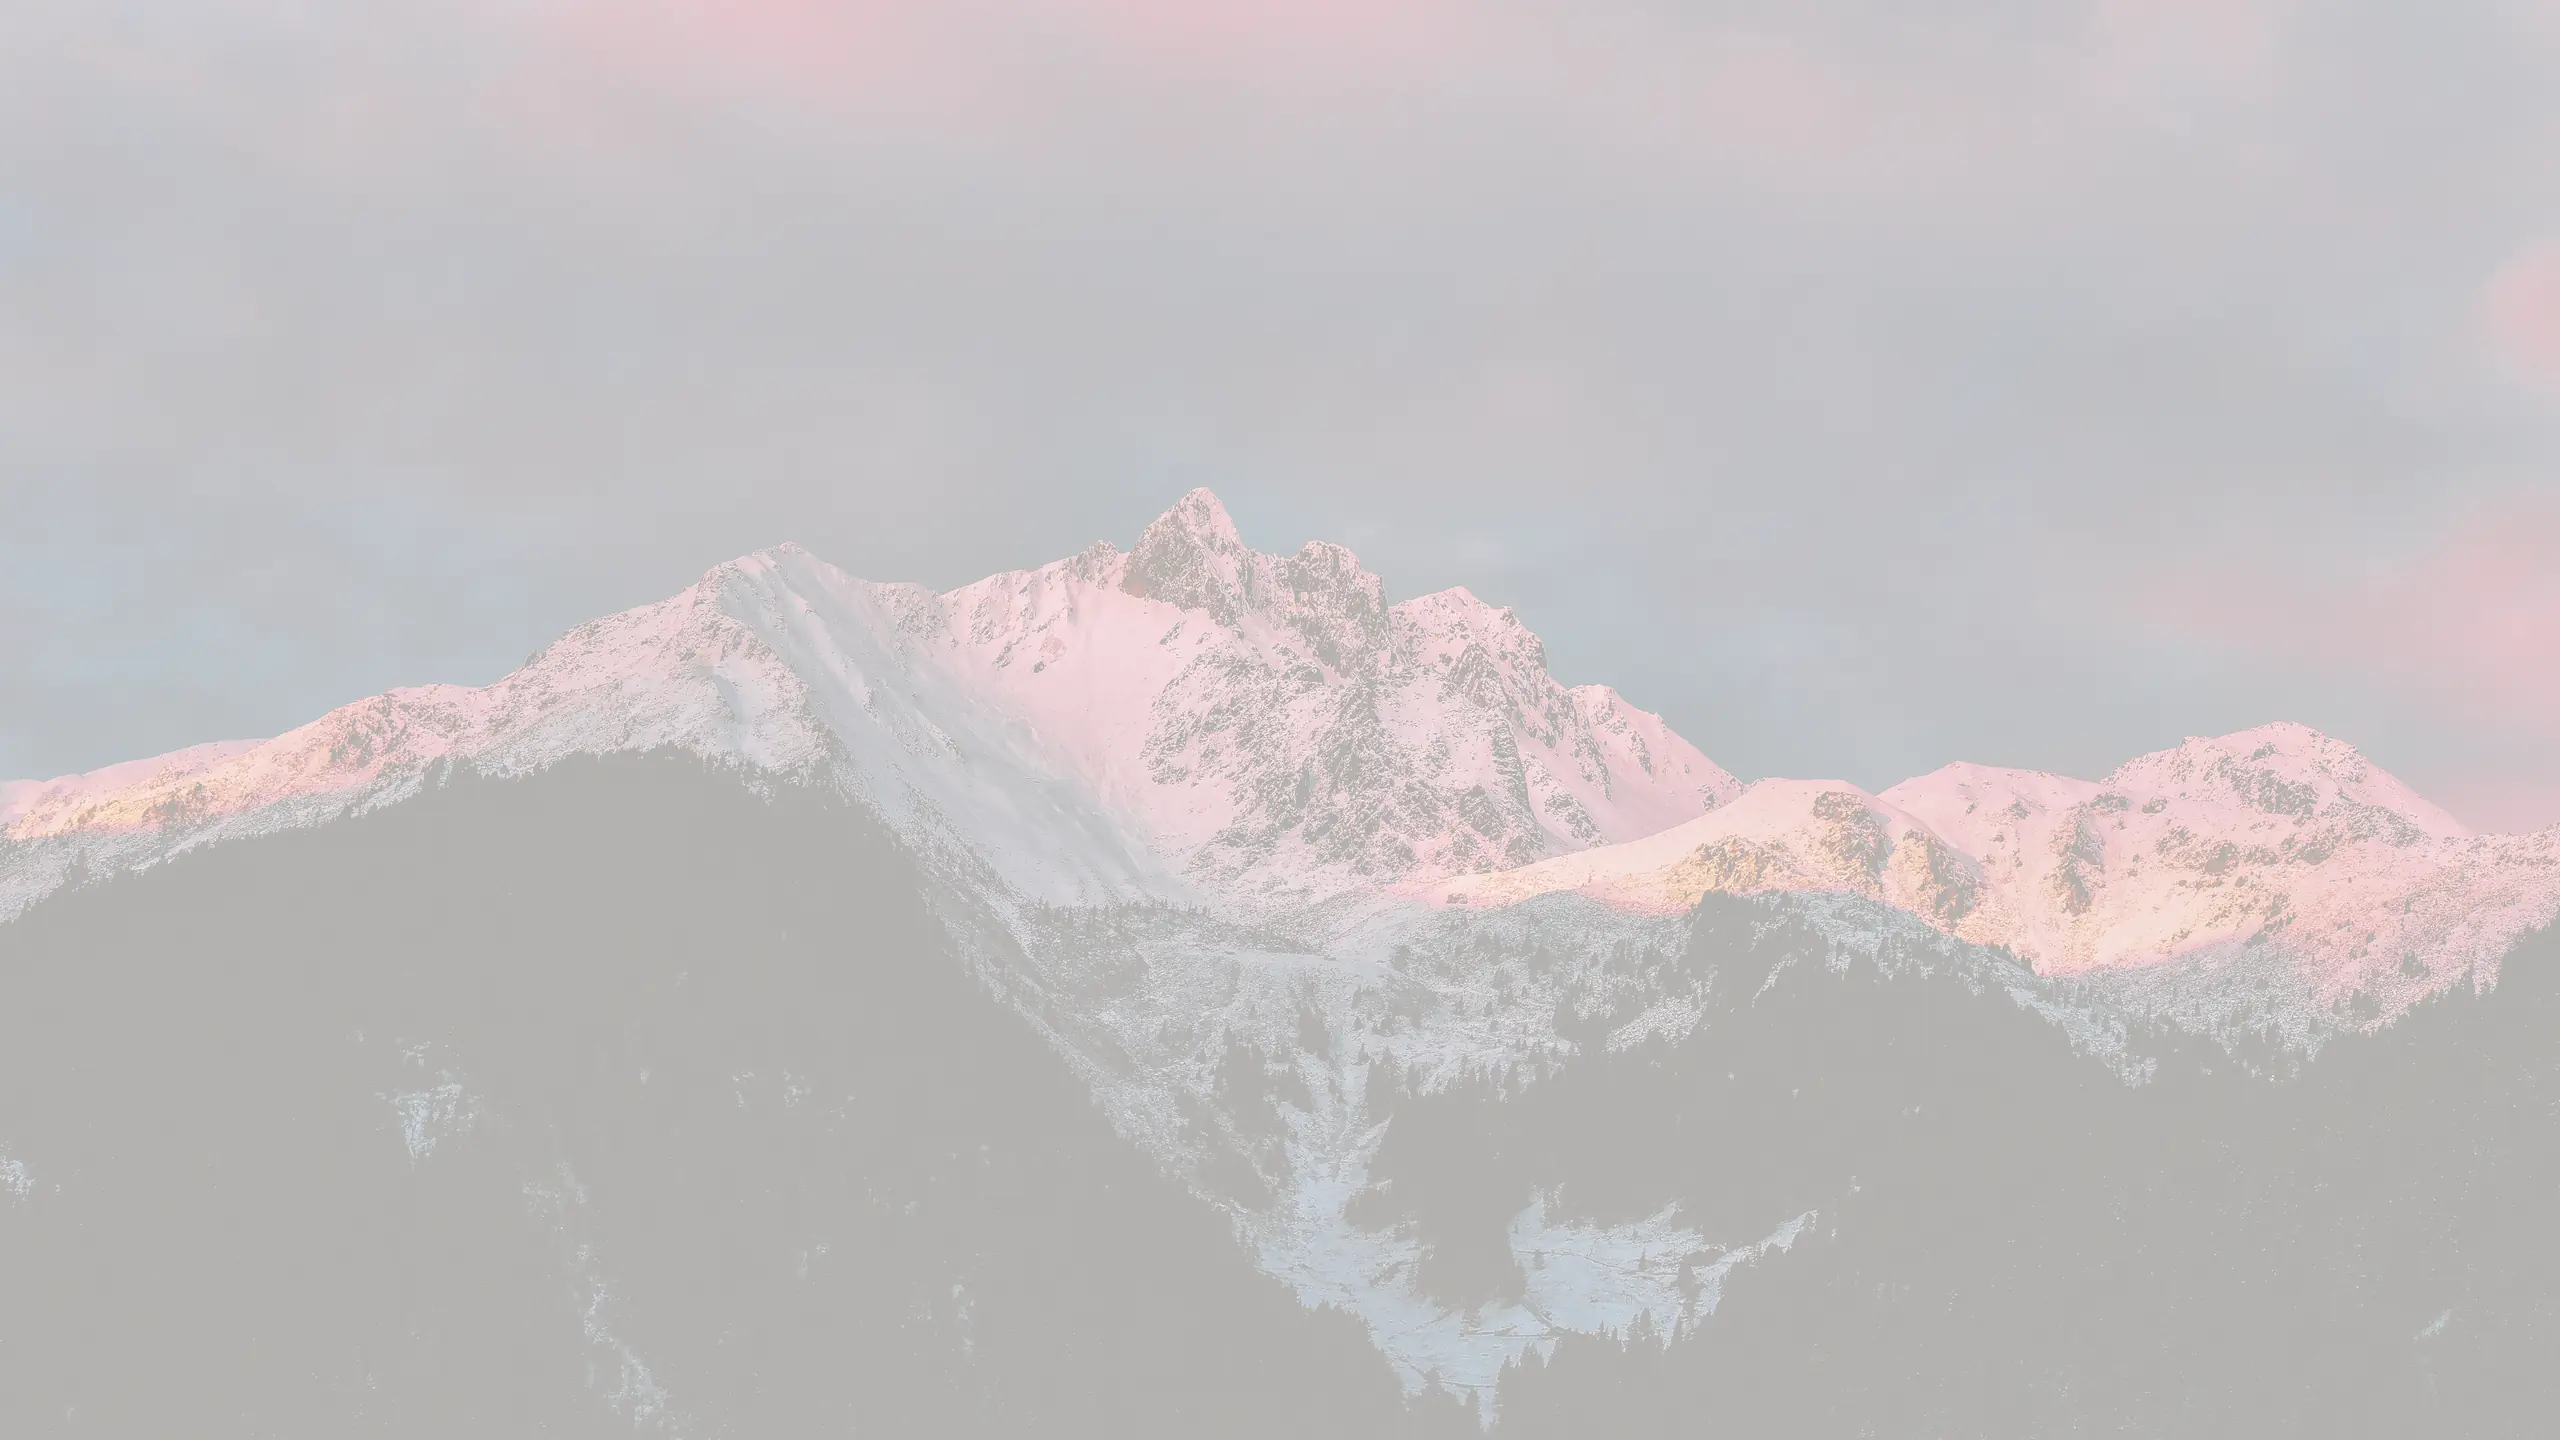
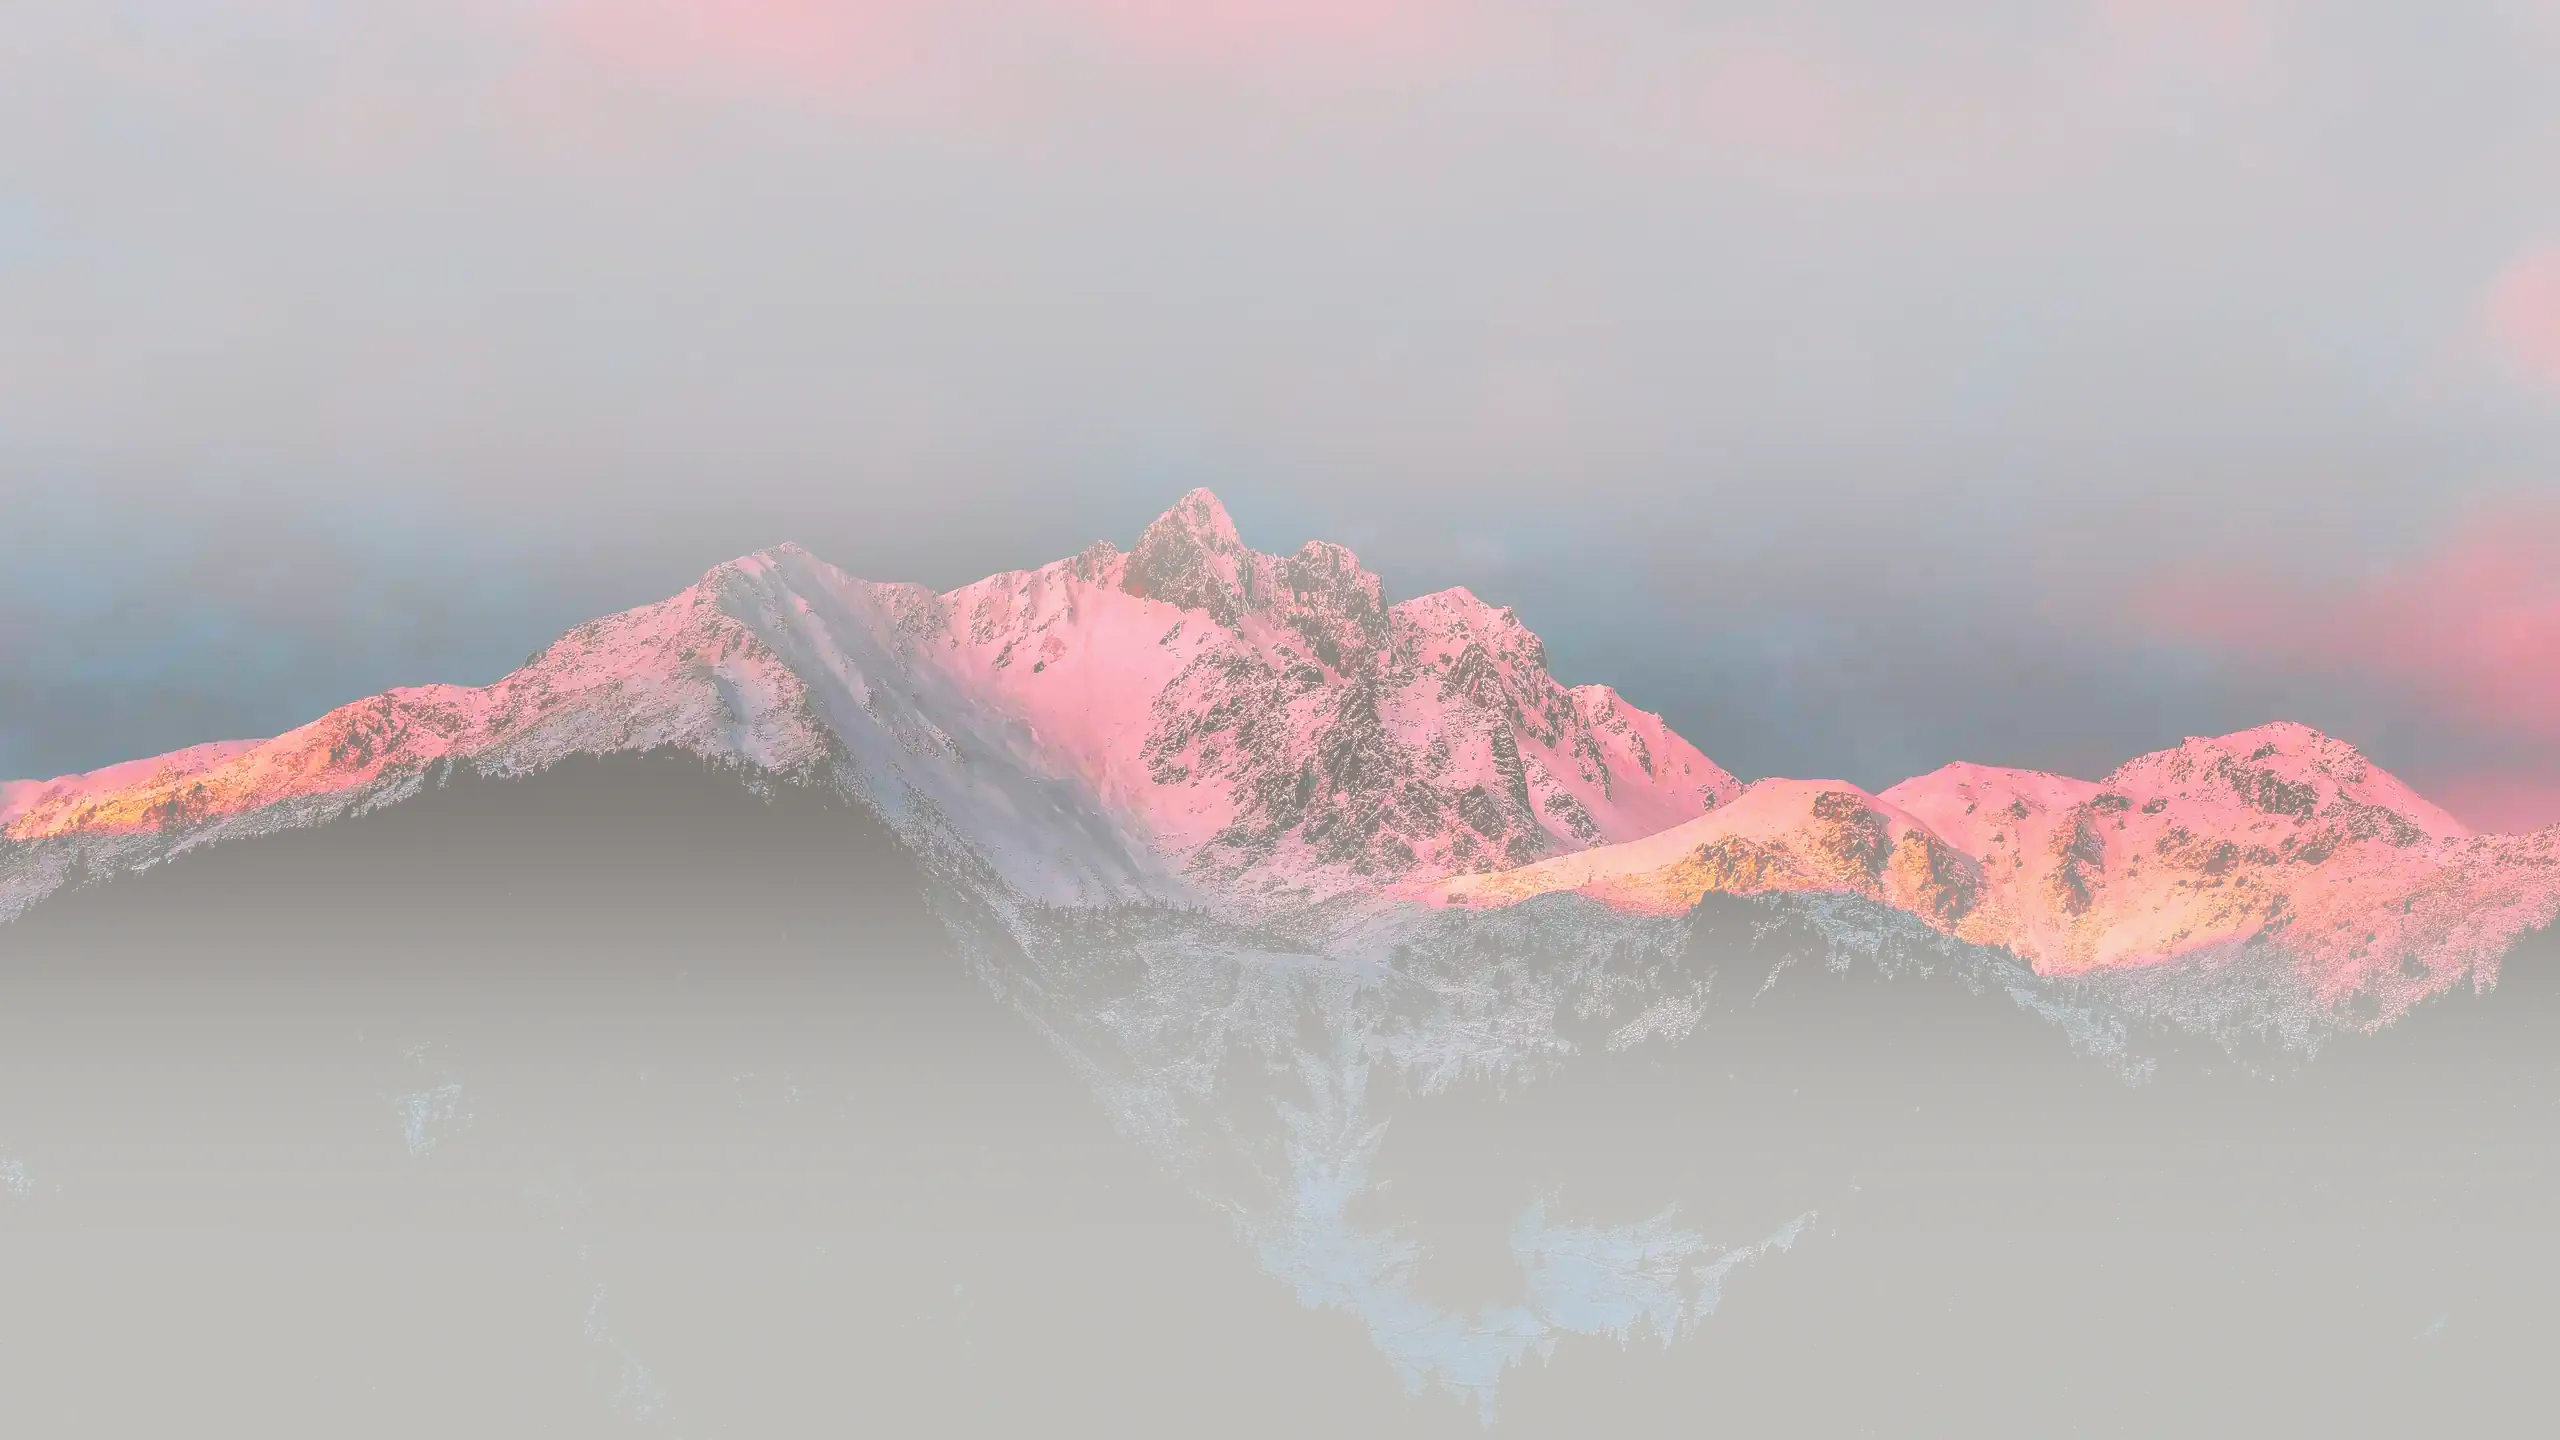
feat: aurora in light theme with blue palette, clearer wallpaper
- Aurora runs in both themes (deeper blues for light), with a CSS fallback
- Rebuilt the light wallpaper with restored contrast instead of a baked white wash
- Lighter side veil, vignette and scroll fade so the photo shows through
- Dissolve the hero atmosphere at its base to avoid a hard edge

Changed region(s): [[0.0, 0.375, 1.0, 0.6875]]

diff --git a/components/AuroraBackground.tsx b/components/AuroraBackground.tsx
@@ -20,6 +20,7 @@ uniform float uIntensity;
 uniform float uGrain;
 uniform float uSeed;
 uniform float uPixel;
+uniform float uWhite;
 uniform vec3 uColors[3];
 
 float hash21(vec2 p) {
@@ -83,7 +84,7 @@ void main() {
     float rays = 0.45 + 0.85 * fbm2(vec2(uv.x * 13.0 + seed, y * 1.7 - t * 0.55));
     float breathe = 0.78 + 0.22 * sin(t * 0.31 + seed) * cos(t * 0.17 + seed * 0.7);
     float weight = ribbon * envelope * rays * breathe * 0.46;
-    vec3 hot = mix(uColors[i % 3], vec3(1.0), clamp(core * 0.42, 0.0, 0.45));
+    vec3 hot = mix(uColors[i % 3], vec3(1.0), clamp(core * uWhite, 0.0, 0.45));
     accum += hot * weight;
     alpha += weight;
   }
@@ -106,11 +107,17 @@ void main() {
 }
 `;
 
-// Cobre, âmbar e rosa-queimado: casam com o acento --accent do portfólio.
+// Azul, ciano e índigo: contrastam com o cobre do acento e da foto de montanha.
 const COLORS: [number, number, number][] = [
-  [0.83, 0.53, 0.35],
-  [0.96, 0.62, 0.30],
-  [0.70, 0.30, 0.38],
+  [0.26, 0.55, 0.98],
+  [0.30, 0.80, 1.00],
+  [0.46, 0.40, 0.96],
+];
+// Tema claro: tons mais fundos, para as faixas lerem sobre fundo claro.
+const COLORS_LIGHT: [number, number, number][] = [
+  [0.10, 0.36, 0.82],
+  [0.12, 0.56, 0.90],
+  [0.32, 0.26, 0.78],
 ];
 
 function compile(gl: WebGL2RenderingContext, type: number, src: string) {
@@ -122,9 +129,9 @@ function compile(gl: WebGL2RenderingContext, type: number, src: string) {
   return sh;
 }
 
-interface Props { intensity?: number; bands?: number; }
+interface Props { intensity?: number; bands?: number; light?: boolean; }
 
-export const AuroraBackground: React.FC<Props> = ({ intensity = 1.15, bands = 4 }) => {
+export const AuroraBackground: React.FC<Props> = ({ intensity = 1.15, bands = 4, light = false }) => {
   const wrap = useRef<HTMLDivElement>(null);
   const canvas = useRef<HTMLCanvasElement>(null);
   const [fallback, setFallback] = useState(false);
@@ -159,7 +166,8 @@ export const AuroraBackground: React.FC<Props> = ({ intensity = 1.15, bands = 4 
     gl.uniform1f(u('uGrain'), 0.85);
     gl.uniform1f(u('uSeed'), 3.0);
     gl.uniform1f(u('uPixel'), 2.0);
-    gl.uniform3fv(u('uColors'), new Float32Array(COLORS.flat()));
+    gl.uniform1f(u('uWhite'), light ? 0.08 : 0.42);
+    gl.uniform3fv(u('uColors'), new Float32Array((light ? COLORS_LIGHT : COLORS).flat()));
     gl.enable(gl.BLEND);
     gl.blendFunc(gl.ONE, gl.ONE_MINUS_SRC_ALPHA);
 
@@ -197,7 +205,7 @@ export const AuroraBackground: React.FC<Props> = ({ intensity = 1.15, bands = 4 
       cancelAnimationFrame(raf); ro.disconnect(); io.disconnect();
       gl.deleteProgram(prog); gl.deleteShader(vs); gl.deleteShader(fs); gl.deleteBuffer(buf);
     };
-  }, [bands, intensity]);
+  }, [bands, intensity, light]);
 
   return (
     <div ref={wrap} aria-hidden="true" className={`aurora-curtain${fallback ? ' aurora-fallback' : ''}`}>

diff --git a/App.tsx b/App.tsx
@@ -66,7 +66,7 @@ const LIGHT: CSSProperties = {
   '--c-violet':     '#6d28d9',
   '--hud-bg':       'rgba(255,255,255,.88)',
   '--stage-bg':     'rgba(0,0,0,.04)',
-  '--mtn-opacity':  '.78',
+  '--mtn-opacity':  '1',
   '--hero-panel':   'rgba(255,255,255,.38)',
   '--inset':        'rgba(0,0,0,.035)',
   '--series':       '#9a4a24',
@@ -346,7 +346,7 @@ const App: React.FC = () => {
       // Wallpaper de montanha: forte no hero, esmaece ao rolar para não competir com o texto
       if (mountainRef.current) {
         const t = Math.min(1, window.scrollY / (window.innerHeight * 0.9));
-        mountainRef.current.style.opacity = String(1 - t * 0.62);
+        mountainRef.current.style.opacity = String(1 - t * 0.42);
         mountainRef.current.style.transform = `translateY(${t * 40}px)`;
       }
     };
@@ -410,7 +410,7 @@ const App: React.FC = () => {
           style={{ backgroundImage: `url(/assets/bg/summit-${darkMode ? 'dark' : 'light'}.webp)` }} />
         {/* Véu escuro do lado do texto, para manter a leitura sobre a foto no modo escuro */}
         <div className="mountain-veil" style={{ background: darkMode
-          ? 'linear-gradient(90deg, rgba(10,10,11,.72) 0%, rgba(10,10,11,.45) 45%, rgba(10,10,11,.12) 100%)'
+          ? 'linear-gradient(90deg, rgba(5,5,5,.52) 0%, rgba(5,5,5,.26) 45%, rgba(5,5,5,.02) 100%)'
           : 'none' }} />
         <div className="mountain-grain" />
       </div>
@@ -572,12 +572,10 @@ const App: React.FC = () => {
           padding: 'clamp(14px,4vh,56px) 0 clamp(12px,3vh,40px)',
           borderBottom: '1px solid var(--line)',
         }}>
-          {darkMode && (
-            <div aria-hidden="true" className="hero-atmosphere">
-              <AuroraBackground />
-              <div className="hero-vignette" />
-            </div>
-          )}
+          <div aria-hidden="true" className="hero-atmosphere">
+            <AuroraBackground key={darkMode ? 'dark' : 'light'} light={!darkMode} intensity={darkMode ? 1.15 : 1.0} />
+            <div className={`hero-vignette${darkMode ? '' : ' is-light'}`} />
+          </div>
           <div aria-hidden="true" className="hero-coordinate">
             <span className="status-dot" />
             <span>{content.hero.location}</span>

diff --git a/index.html b/index.html
@@ -129,22 +129,31 @@
         .side-index-item.is-active .side-index-num { color: var(--accent); }
       }
 
+      .hero-vignette.is-light {
+        background: linear-gradient(90deg, rgba(245,245,244,.42), rgba(245,245,244,.10) 48%, rgba(245,245,244,0)),
+                    linear-gradient(180deg, rgba(245,245,244,.40) 0%, transparent 22%);
+      }
+      .aurora-fallback { opacity: 1; }
+
       /* ── Hero: aurora WebGL em tela cheia atrás do conteúdo (estilo aiXis) ── */
       body { overflow-x: clip; }
       .hero-atmosphere {
         position: absolute; top: 0; bottom: 0; left: 50%; width: 100vw; transform: translateX(-50%);
         z-index: -1; pointer-events: none; overflow: clip;
+        /* dissolve a base, para a aurora não terminar numa borda seca no fim do hero */
+        -webkit-mask-image: linear-gradient(to bottom, #000 0%, #000 62%, transparent 100%);
+                mask-image: linear-gradient(to bottom, #000 0%, #000 62%, transparent 100%);
       }
       .aurora-curtain { position: absolute; inset: 0 0 -30px 0; }
       .aurora-curtain canvas { width: 100%; height: 100%; display: block; }
       .aurora-fallback {
-        background: radial-gradient(ellipse at 70% 80%, rgba(212,136,90,.40), transparent 50%),
-                    radial-gradient(ellipse at 43% 70%, rgba(180,80,70,.32), transparent 45%);
+        background: radial-gradient(ellipse at 70% 80%, rgba(60,140,250,.38), transparent 50%),
+                    radial-gradient(ellipse at 43% 70%, rgba(110,100,245,.30), transparent 45%);
       }
       .hero-vignette {
         position: absolute; inset: 0;
-        background: linear-gradient(90deg, rgba(5,5,5,.70), rgba(5,5,5,.28) 48%, rgba(5,5,5,.04)),
-                    linear-gradient(0deg, var(--bg) 0%, transparent 32%, rgba(5,5,5,.15) 80%, rgba(5,5,5,.6) 100%);
+        background: linear-gradient(90deg, rgba(5,5,5,.50), rgba(5,5,5,.14) 48%, rgba(5,5,5,0)),
+                    linear-gradient(180deg, rgba(5,5,5,.40) 0%, transparent 22%);
       }
 
       /* ── Componentes do design atual (vidro, raio 12, cobre) ── */
